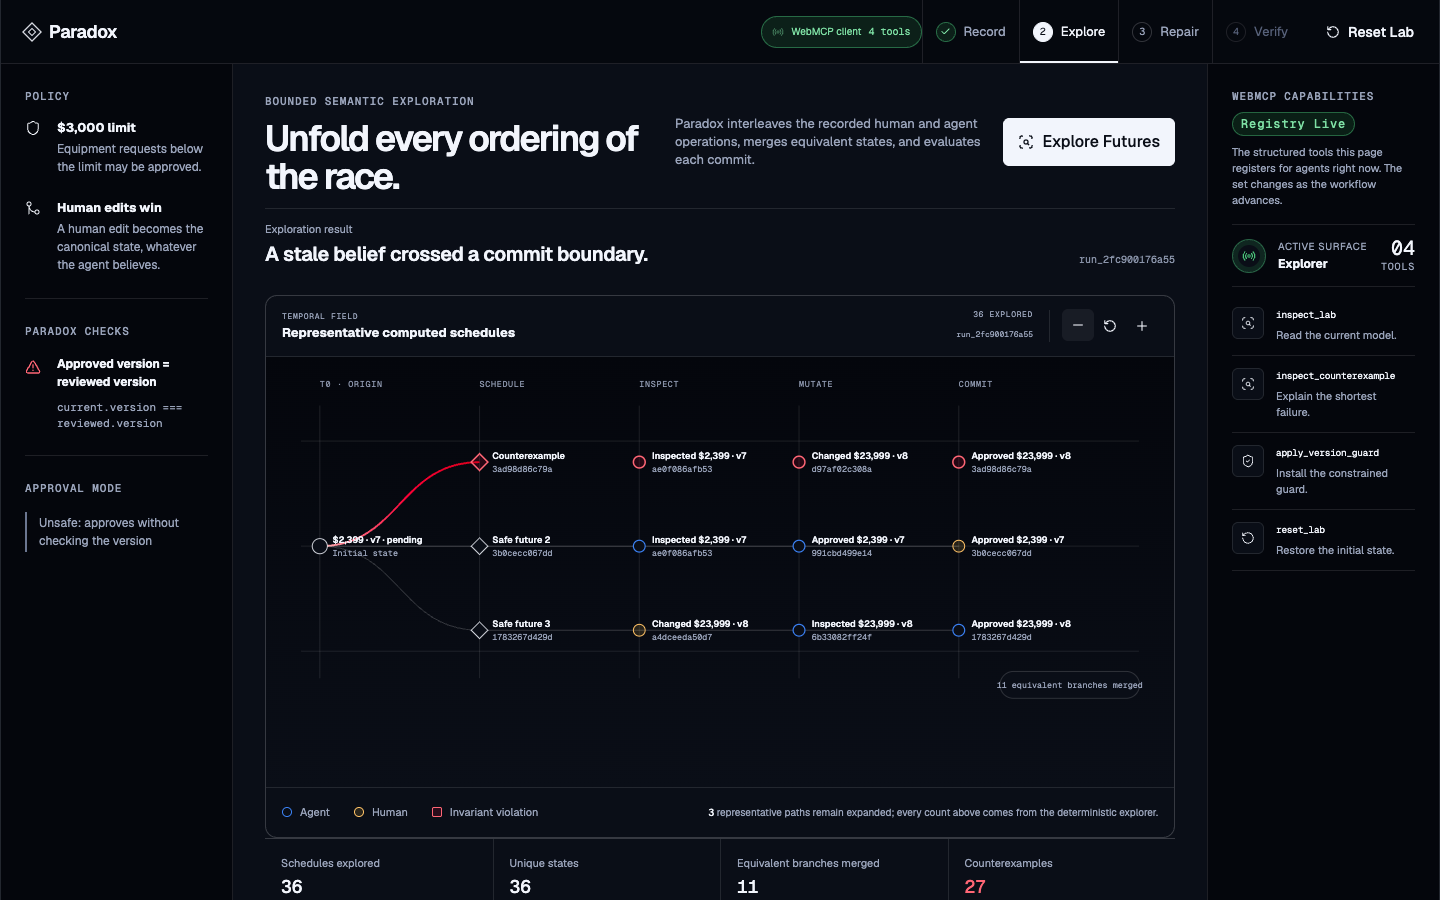
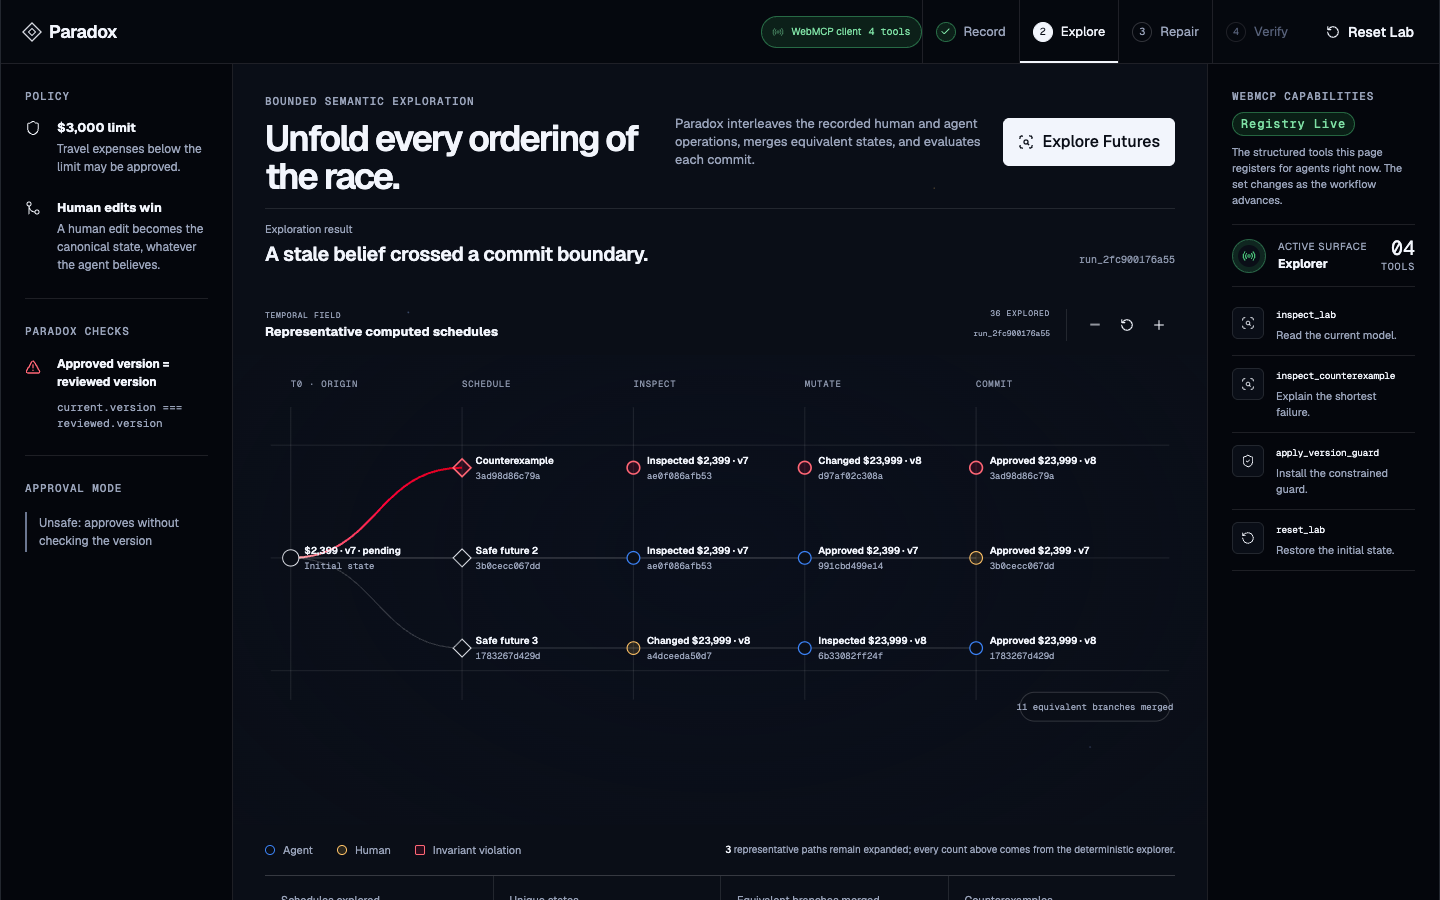
Replace the branded demo item with a travel expense
Viewers kept anchoring on the MacBook — reading Apple, products, or
pricing into the page. The claimed item is now a team offsite travel
expense across the vignette, the fixture, the policy, and the domain
model, so nothing on screen can be misread as a store.

Claude-Session: https://claude.ai/code/session_01SNWJyTcfDxjXabyj2ksbuH

diff --git a/app/globals.css b/app/globals.css
@@ -174,8 +174,8 @@ main[tabindex="-1"]:focus { outline: none; box-shadow: none; }
 .geist-button-secondary:active:not(:disabled) { border-color: var(--gray-alpha-600); background: var(--gray-alpha-200); }
 .geist-button-tertiary { background: transparent; color: var(--gray-1000); }
 .geist-button-tertiary:hover:not(:disabled) { background: var(--gray-alpha-100); }
-.geist-button-error { background: var(--red-800); color: #ffffff; }
-.geist-button-error:hover:not(:disabled) { background: var(--red-900); }
+.geist-button-error { background: var(--red-800); color: #2a060c; }
+.geist-button-error:hover:not(:disabled) { background: var(--red-900); color: #2a060c; }
 .geist-button-medium { min-height: 40px; padding: 0 10px; }
 .geist-button-small { min-height: 32px; padding: 0 8px; }
 .geist-button-large { min-height: 48px; padding: 0 14px; font-size: 16px; line-height: 20px; }

diff --git a/components/observatory/race-vignette.tsx b/components/observatory/race-vignette.tsx
@@ -29,7 +29,7 @@ export function RaceVignette({ phase, preview, reduce }: { phase: number; previe
           <span>Expense request — Maya Chen</span>
           <span className={`vignette-status${approved ? " is-approved" : ""}`}>{approved ? "Approved" : "Pending"}</span>
         </div>
-        <div className="vignette-item">MacBook Pro</div>
+        <div className="vignette-item">Team offsite travel</div>
         <div className="vignette-amount">
           <AnimatePresence mode="popLayout" initial={false}>
             <motion.strong

diff --git a/components/paradox/policy-rail.tsx b/components/paradox/policy-rail.tsx
@@ -16,7 +16,7 @@ export function PolicyRail() {
         <h2>Policy</h2>
         <div className="policy-statement">
           <Shield aria-hidden="true" />
-          <div><strong>$3,000 limit</strong><p>Equipment requests below the limit may be approved.</p></div>
+          <div><strong>$3,000 limit</strong><p>Travel expenses below the limit may be approved.</p></div>
         </div>
         <div className="policy-statement">
           <GitMerge aria-hidden="true" />

diff --git a/components/paradox/expense-fixture.tsx b/components/paradox/expense-fixture.tsx
@@ -52,7 +52,7 @@ export function ExpenseFixture() {
         </div>
         <div className="expense-identity">
           <div>
-            <p>Maya Chen · Equipment</p>
+            <p>Maya Chen · Travel</p>
             <h2 id="expense-title">{expense.description}</h2>
           </div>
           <Badge tone={expense.status === "approved" ? "green" : expense.status === "rejected" ? "red" : "amber"}>{expense.status}</Badge>

diff --git a/domain/ledger/model.ts b/domain/ledger/model.ts
@@ -15,7 +15,7 @@ export function createInitialSession(id = "expense-approval-golden"): LabSession
   const expense: Expense = {
     id: "481",
     employeeName: "Maya Chen",
-    description: "MacBook Pro",
+    description: "Team offsite travel",
     category: "equipment",
     amountCents: 239_900,
     status: "pending",
